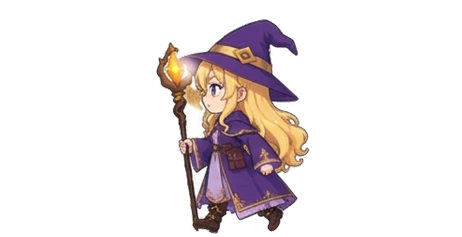
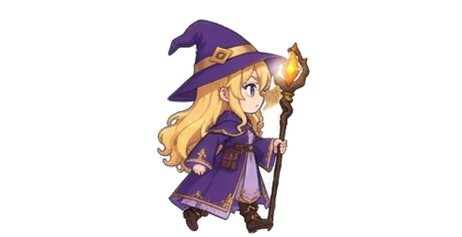
美術：法師跑步格改朝右，補上朝向交付規則
Claude-Session: https://claude.ai/code/session_01FRVq7px65EBN8hNLsqmebX

Changed region(s): [[0.3333, 0.0591, 0.6667, 1.0]]

diff --git a/art/anim-run/README.md b/art/anim-run/README.md
@@ -3,7 +3,7 @@
 | 職業 id | 格數 | 畫布 | 備註 |
 |---|---|---|---|
 | swordsman | 8 | 485×244 | 第 3、7 格騰空 |
-| mage | 8 | 462×237 | 長袍，步幅較小 |
+| mage | 8 | 462×237 | 長袍，步幅較小；原圖朝左，已鏡像成朝右（舊待機格也朝左，程式部已鏡像） |
 | archer | 8 | 238×232 | |
 | acolyte | 8 | 338×232 | |
 | merchant | 6 | 403×268 | 原圖朝左，已鏡像成朝右；`idle-fix/` 是鏡像後的待機 4 格（舊待機格朝左、攻擊格朝右，原本就不一致） |
@@ -12,3 +12,5 @@
 - 檔名 `<id>_walk_<n>.png`，畫布、腳底線、身高都對齊 Unity 現有 walk_0，直接覆蓋即可；騰空格已抬高 7 px。
 - `<id>_run_preview.gif` 是 80 ms 一格的預覽。
 - 原圖 `raw/`（Higgsfield 生成），工具 `art/characters-v2/tools/runframes.py`（劍士）、`runauto.py`（其餘）。
+
+交付規則：所有角色格一律朝右，交付前逐職業比對 idle／walk／attack 朝向。
